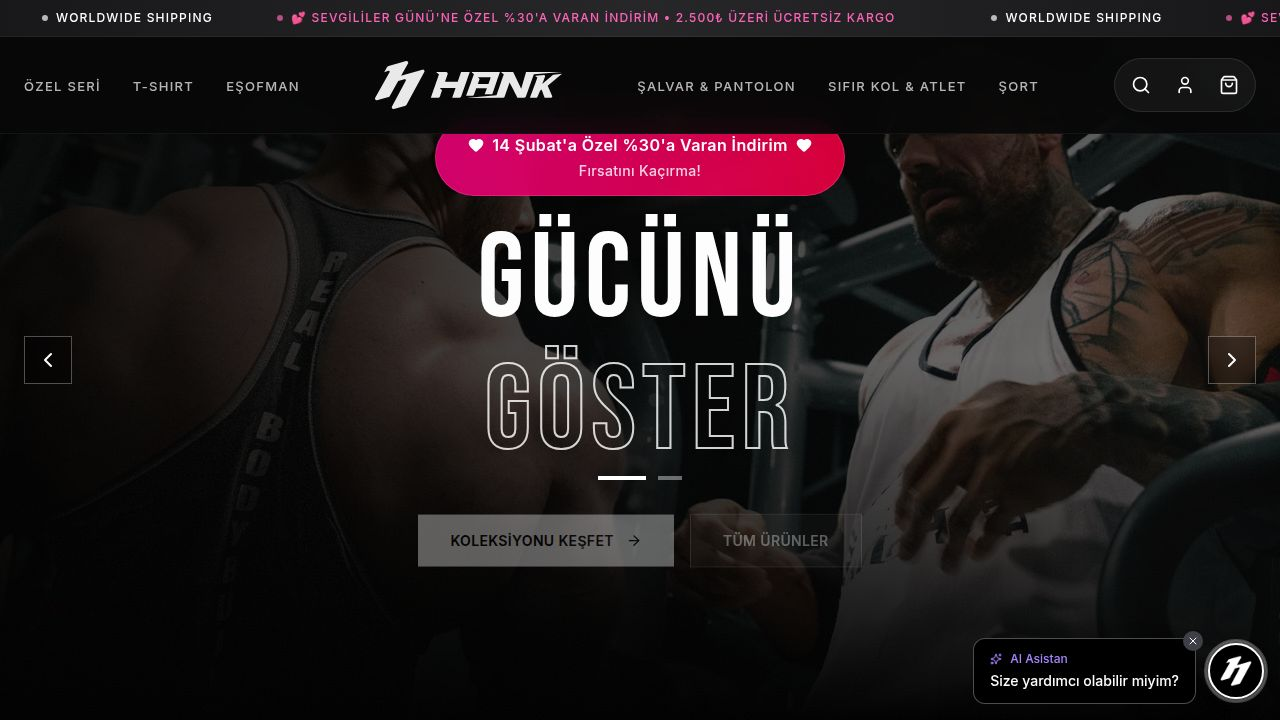
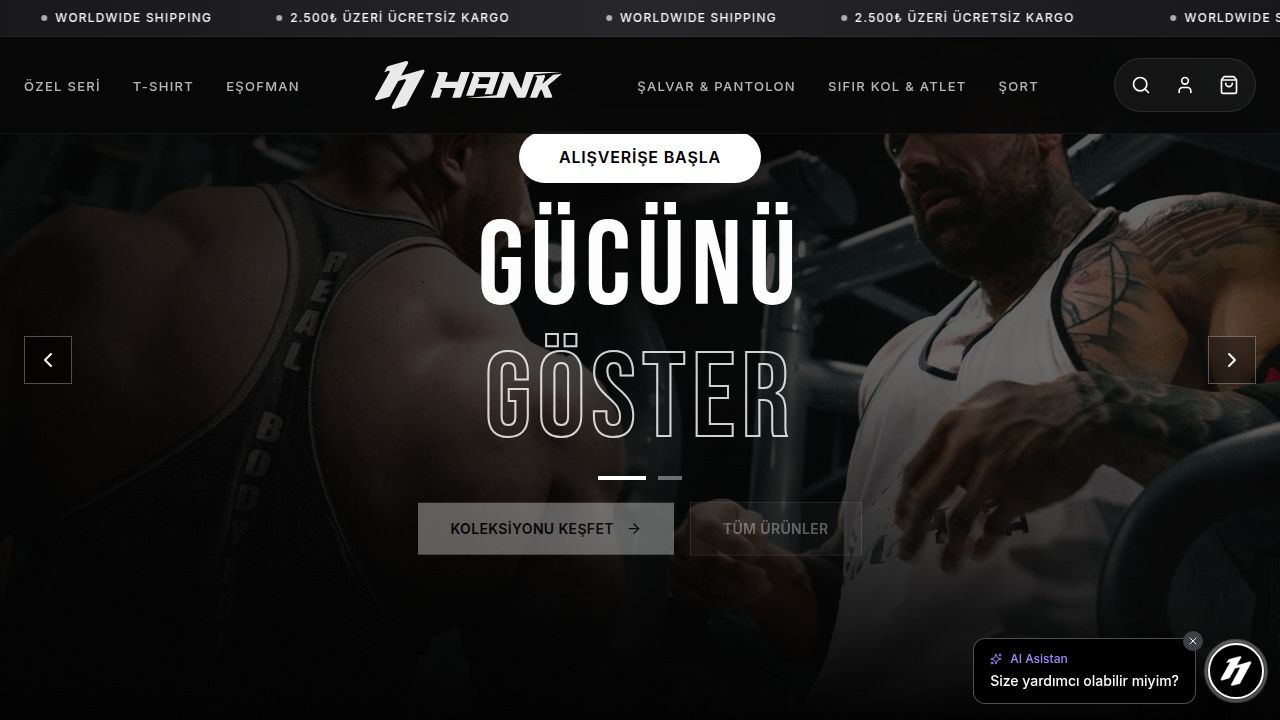
Update header to remove Valentine's Day promotions and text
Remove Valentine's Day specific text and promotional content from the header notice, replacing it with free shipping information.

Replit-Commit-Author: Agent
Replit-Commit-Session-Id: da28de40-c124-4fa5-adff-9b4eaa5ef91a
Replit-Commit-Checkpoint-Type: full_checkpoint
Replit-Commit-Event-Id: f62b7b11-9186-4ee7-93bf-f3f43f040b51
Replit-Commit-Screenshot-Url: https://storage.googleapis.com/screenshot-production-us-central1/a9963fd0-bbd1-41df-9011-ff90bef6639e/da28de40-c124-4fa5-adff-9b4eaa5ef91a/GZCH94g
Replit-Helium-Checkpoint-Created: true

diff --git a/client/src/components/Header.tsx b/client/src/components/Header.tsx
@@ -78,8 +78,8 @@ export function Header() {
                       <span className="text-white font-medium">WORLDWIDE SHIPPING</span>
                     </span>
                     <span className="flex items-center gap-2 text-xs tracking-widest uppercase">
-                      <span className="w-1.5 h-1.5 rounded-full bg-pink-400 animate-pulse" />
-                      <span className="text-pink-400 font-medium">💕 SEVGİLİLER GÜNÜ'NE ÖZEL %30'A VARAN İNDİRİM • 2.500₺ ÜZERİ ÜCRETSİZ KARGO</span>
+                      <span className="w-1.5 h-1.5 rounded-full bg-white animate-pulse" />
+                      <span className="text-white font-medium">2.500₺ ÜZERİ ÜCRETSİZ KARGO</span>
                     </span>
                   </div>
                 ))}
